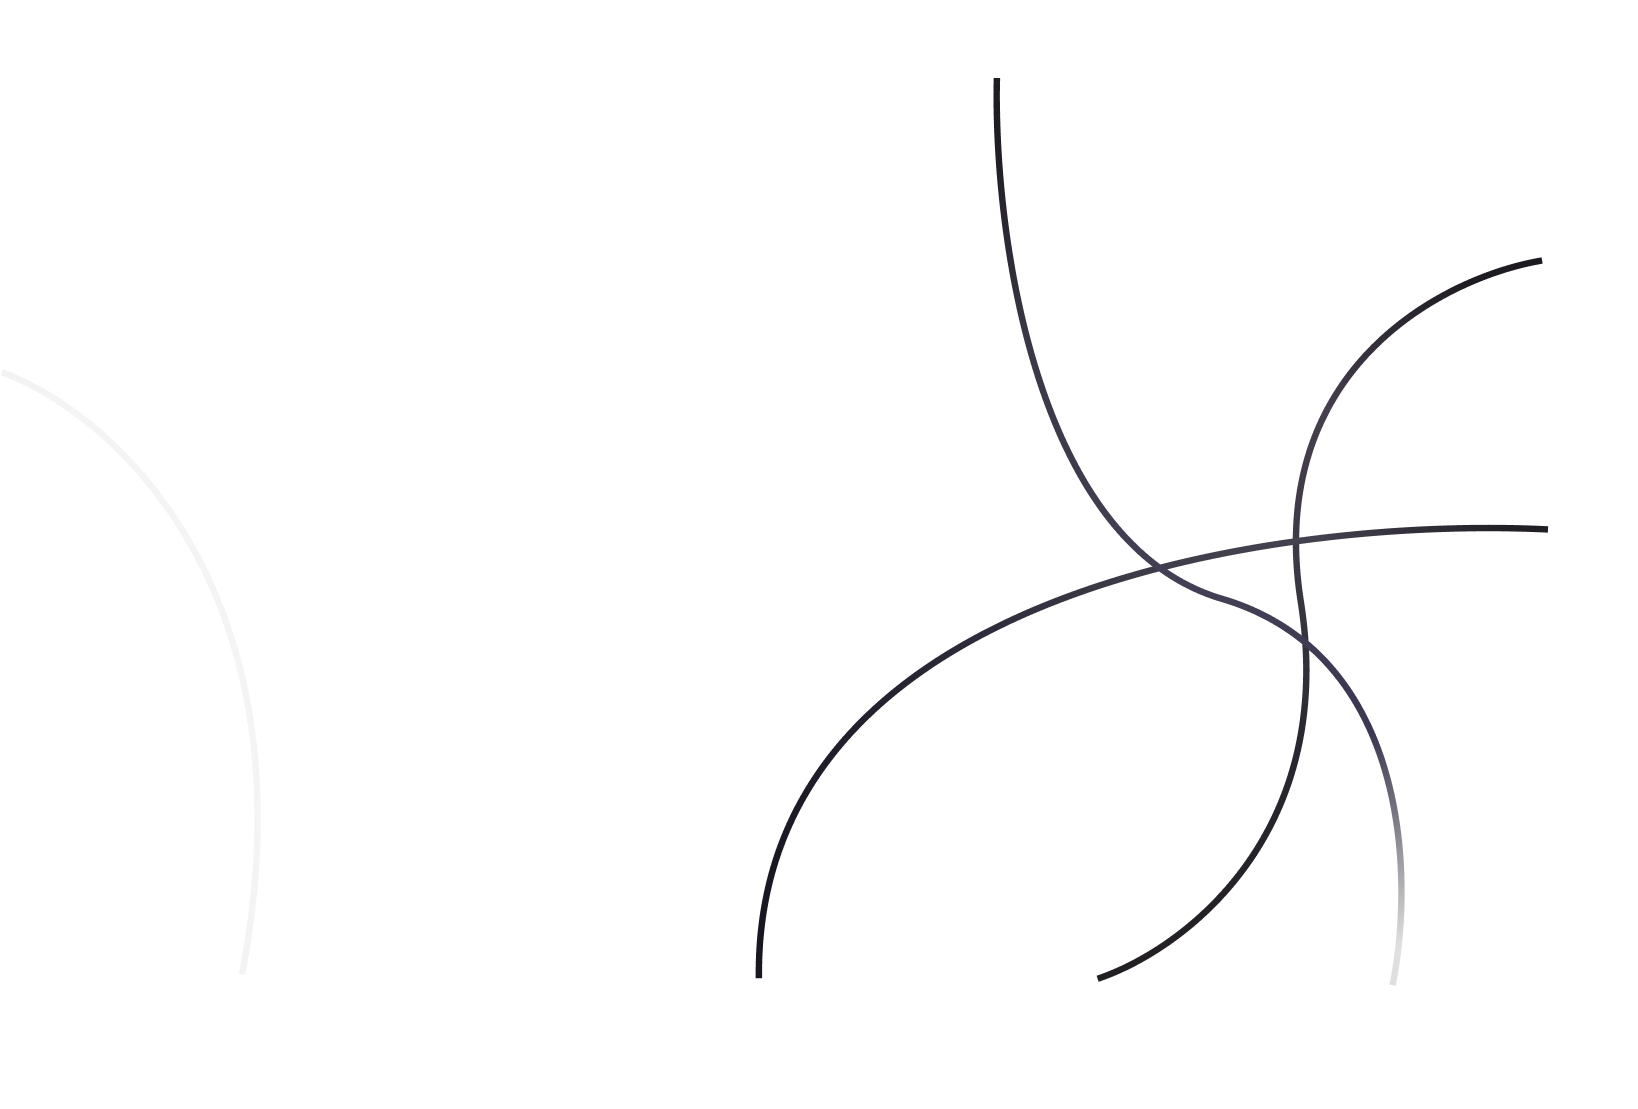
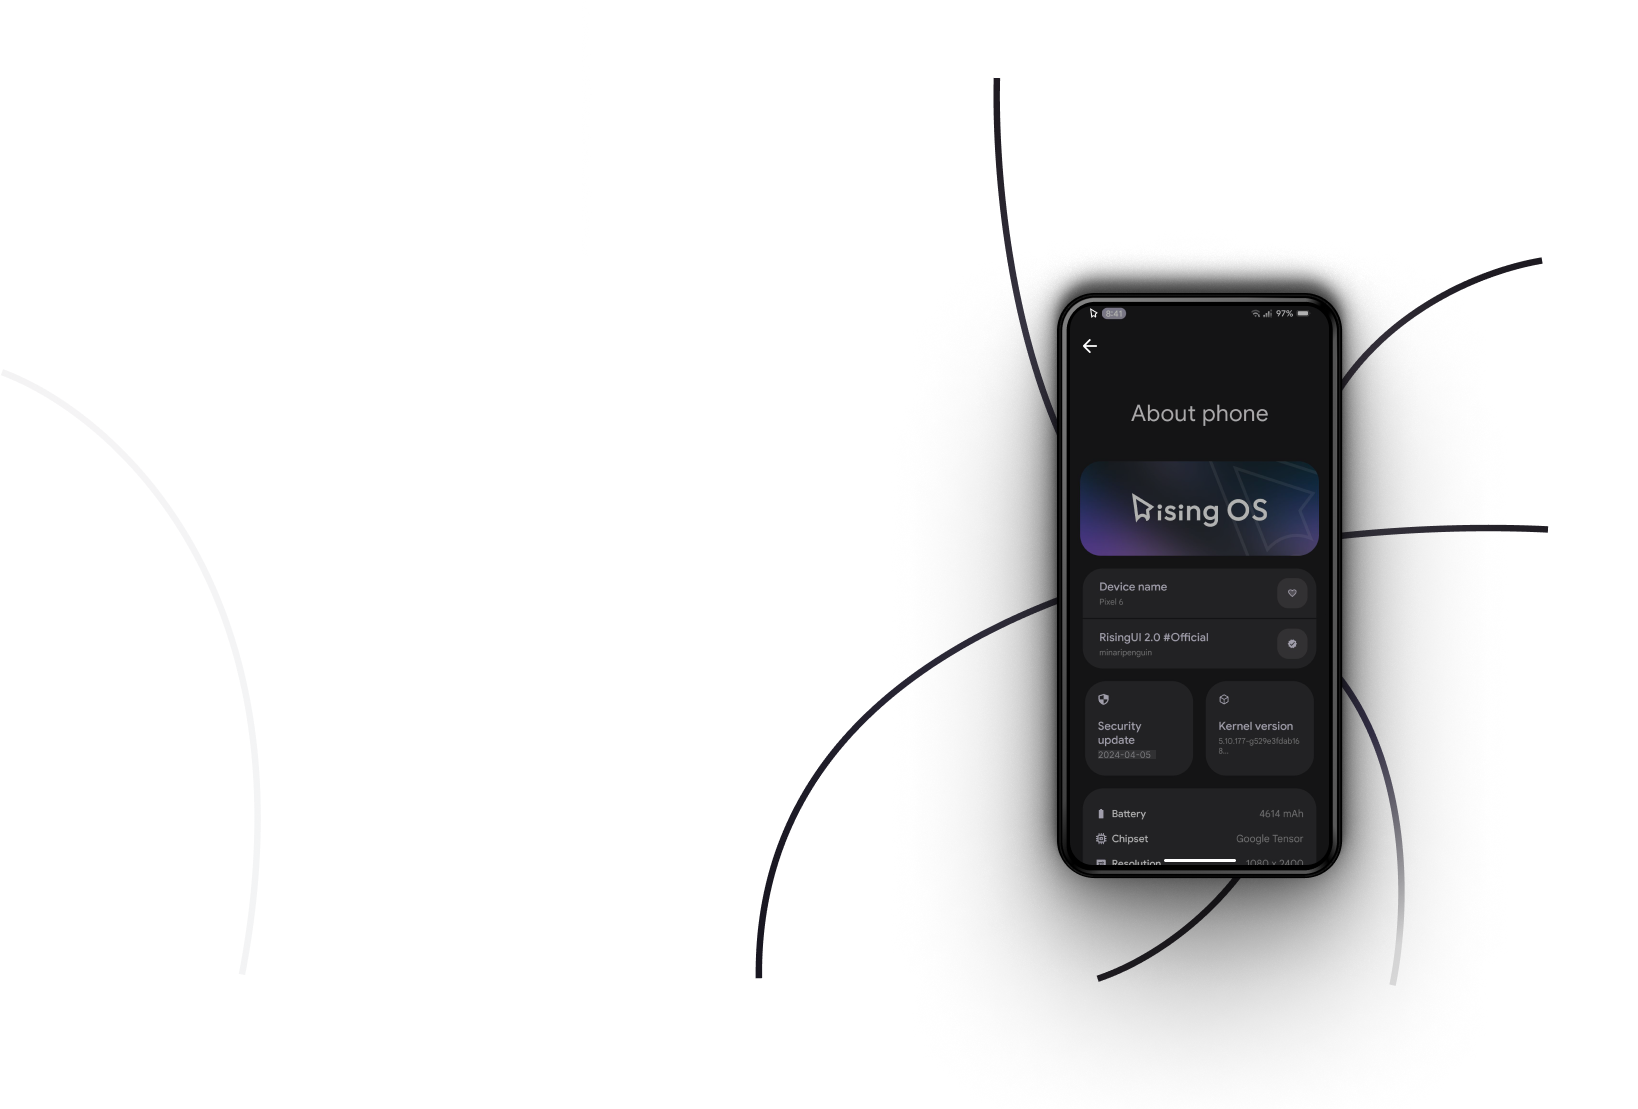
Home: make sure to use phone-mockup from background directly

Changed region(s): [[0.5916, 0.2146, 0.8718, 0.9197]]

diff --git a/index.html b/index.html
@@ -29,9 +29,6 @@
                 <a href="#" class="learn-more-btn">LEARN MORE</a>
             </div>
             <img src="arrow.png" alt="Arrow" class="button-arrow">
-            <div class="hero-image">
-                <img src="phone-mockup.png" alt="Phone Mockup">
-            </div>
         </section>
     </main>
 </body>

diff --git a/styles.css b/styles.css
@@ -147,13 +147,3 @@ nav ul li a:hover {
     left: 160px;
     top: 372px;
 }
-
-.hero-image {
-    position: absolute;
-    top: 150px;
-    right: 150px;
-}
-
-.hero-image img {
-    width: 350px;
-}
